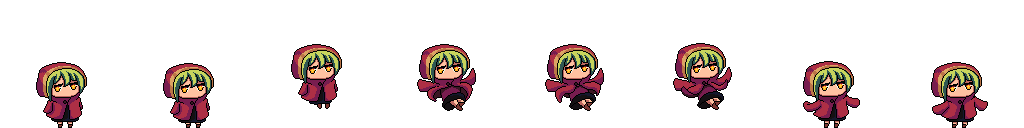
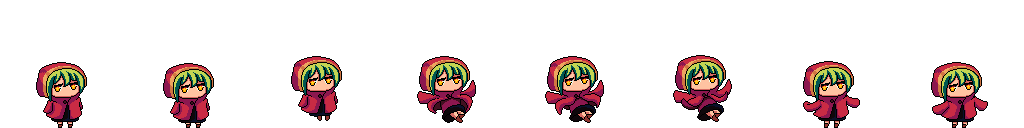
add jumping animation, animation cancelation, README

diff --git a/scripts/script.js b/scripts/script.js
@@ -1,3 +1,5 @@
+import {spriteX, spriteY, idleVelocity, jumpSprites, offsetPerFrame} from './config.js';
+
 const canvas = document.querySelector('.playfield');
 const width = canvas.width = 600;
 const height = canvas.height = 400;
@@ -7,37 +9,55 @@ ctx.fillStyle = 'beige';
 ctx.fillRect(0,0,width,height);
 ctx.translate(0, height / 2);
 
-const spriteX = 128;
-const spriteY = 128;
-
+let isJumpPressed = false;
 let sprite = 0;
 let frame = 0;
 let velocity = 5;
-const idleVelocity = 13;
 let startGame = false;
 
 const imageRun = new Image();
 imageRun.src = "../images/Run.png";
+let runId;
 document.addEventListener('keyup', (e) => {
   if (e.key === 'Enter' && !startGame) {
     startGame = true;
-    drawRun();
+    window.cancelAnimationFrame(idleId);
+    runId = window.requestAnimationFrame(drawRun);
   }
 });
 
 const imageIdle = new Image();
 imageIdle.src = "../images/Idle.png";
-imageIdle.onload = drawIdle;
+let idleId;
+imageIdle.onload = () => {
+  idleId = window.requestAnimationFrame(drawIdle);
+};
 
 const imageJump = new Image();
 imageJump.src = "../images/Jump.png";
-// document.addEventListener('keypress', (e) => {
-//   if ((e.code === 'Space' || e.code === 'ArrowUp') && startGame) {
-//     drawJump();
-//   }
-// });
+let jumpId;
+document.addEventListener('keydown', (e) => {
+  if ((e.code === 'Space' || e.code === 'ArrowUp') && startGame && !isJumpPressed) {
+    window.cancelAnimationFrame(runId);
+    sprite = 0;
+    isJumpPressed = true;
+    jumpId = window.requestAnimationFrame(drawJump);
+  }
+});
+
+document.addEventListener('keyup', (e) => {
+  if (e.code === 'Escape') {
+    console.log('abort')
+    window.cancelAnimationFrame(idleId);
+    window.cancelAnimationFrame(jumpId);
+    window.cancelAnimationFrame(runId);
+    startGame = false;
+  }
+})
 
 function drawIdle() {
+  if (sprite === 0) console.log('drawIdle');
+
   ctx.fillRect(-(width / 2), -(height / 2), width, height);
   ctx.drawImage(
     imageIdle, 
@@ -51,21 +71,16 @@ function drawIdle() {
     128 // the size of the image on the canvas (Y)
   );
 
-  if (frame % idleVelocity === 0) {
-    if (sprite === 4) {
-      sprite = 0;
-      frame = 0;
-    } else {
-      sprite++;
-    }
-  }
+  slowFramerate(idleVelocity, 4);
 
   frame++;
 
-  window.requestAnimationFrame(drawIdle);
+  idleId = window.requestAnimationFrame(drawIdle);
 }
 
 function drawRun() {
+  if (sprite === 0) console.log('drawRun');
+
   ctx.fillRect(-(width / 2), -(height / 2), width, height);
   ctx.drawImage(
     imageRun, 
@@ -79,23 +94,18 @@ function drawRun() {
     128 // the size of the image on the canvas (Y)
   );
 
-  if (frame % velocity === 0) {
-    if (sprite === 7) {
-      sprite = 0;
-      frame = 0;
-    } else {
-      sprite++;
-    }
-  }
+  slowFramerate(velocity, 7);
 
   frame++;
 
-  window.requestAnimationFrame(drawRun);
+  runId = window.requestAnimationFrame(drawRun);
 }
 
 let posY = 0;
-const jumpSprites = 7;
+
 function drawJump() {
+  if (sprite === 0) console.log('drawJump');
+
   ctx.fillRect(-(width / 2), -(height / 2), width, height);
   ctx.drawImage(
     imageJump,
@@ -108,25 +118,39 @@ function drawJump() {
     128, // the size of the image on the canvas (X)
     128 // the size of the image on the canvas (Y)
   );
+  
+  slowFramerate(velocity, jumpSprites);
 
+  // accending and descending
+  if (sprite < Math.ceil(jumpSprites / 2)) {
+    posY = sprite * offsetPerFrame;
+  } else {
+    posY = (jumpSprites - sprite) * offsetPerFrame;
+  }
+
+  // console.log(sprite, posY);
+
+  frame++;
+  
+  // end of the jump
+  if (sprite === jumpSprites) {
+    sprite = 0;
+    frame = 0;
+    window.cancelAnimationFrame(jumpId);
+    isJumpPressed = false;
+    drawRun();
+  } else {
+    window.requestAnimationFrame(drawJump);
+  }
+}
+
+function slowFramerate(velocity, numOfSprites) {
   if (frame % velocity === 0) {
-    if (sprite === jumpSprites) {
+    if (sprite === numOfSprites) {
       sprite = 0;
       frame = 0;
     } else {
       sprite++;
     }
   }
-
-  // add condition to jump only once at a time (no jumps mid air)
-
-  // if (posY > spriteY / 2) {
-  //   posY -= spriteY / Math.floor(jumpSprites / 2);
-  // } else {
-  //   posY += spriteY / Math.floor(jumpSprites / 2);
-  // }
-
-  frame++;
-
-  window.requestAnimationFrame(drawJump);
 }

diff --git a/index.html b/index.html
@@ -4,7 +4,8 @@
     <meta charset="utf-8">
     <meta name="viewport" content="width=device-width, initial-scale=1.0">
     <title>Dino Game</title>
-    <script src="scripts/script.js" defer></script>
+    <script src="scripts/config.js" type="module"></script>
+    <script src="scripts/script.js" type="module" defer></script>
     <link href="style.css" rel="stylesheet">
   </head>
   <body>

diff --git a/scripts/config.js b/scripts/config.js
@@ -1,0 +1,5 @@
+export const spriteX = 128;
+export const spriteY = 128;
+export const idleVelocity = 13;
+export const jumpSprites = 7;
+export const offsetPerFrame = spriteY / Math.ceil(jumpSprites / 2);

diff --git a/README.md b/README.md
@@ -1,0 +1,6 @@
+# 2D Runner Game (work in progress)
+
+Controls:
+- Start (`Enter`)
+- Stop (`Esc`)
+- Jump (`Spacebar`)
